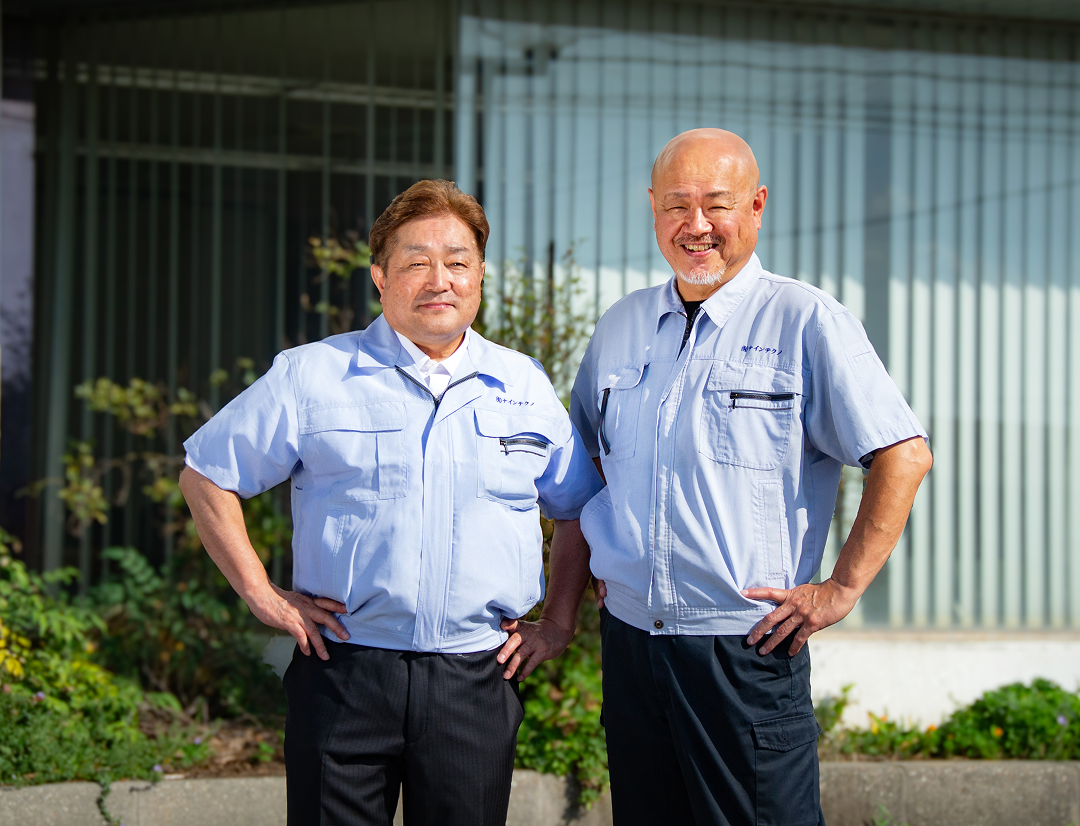
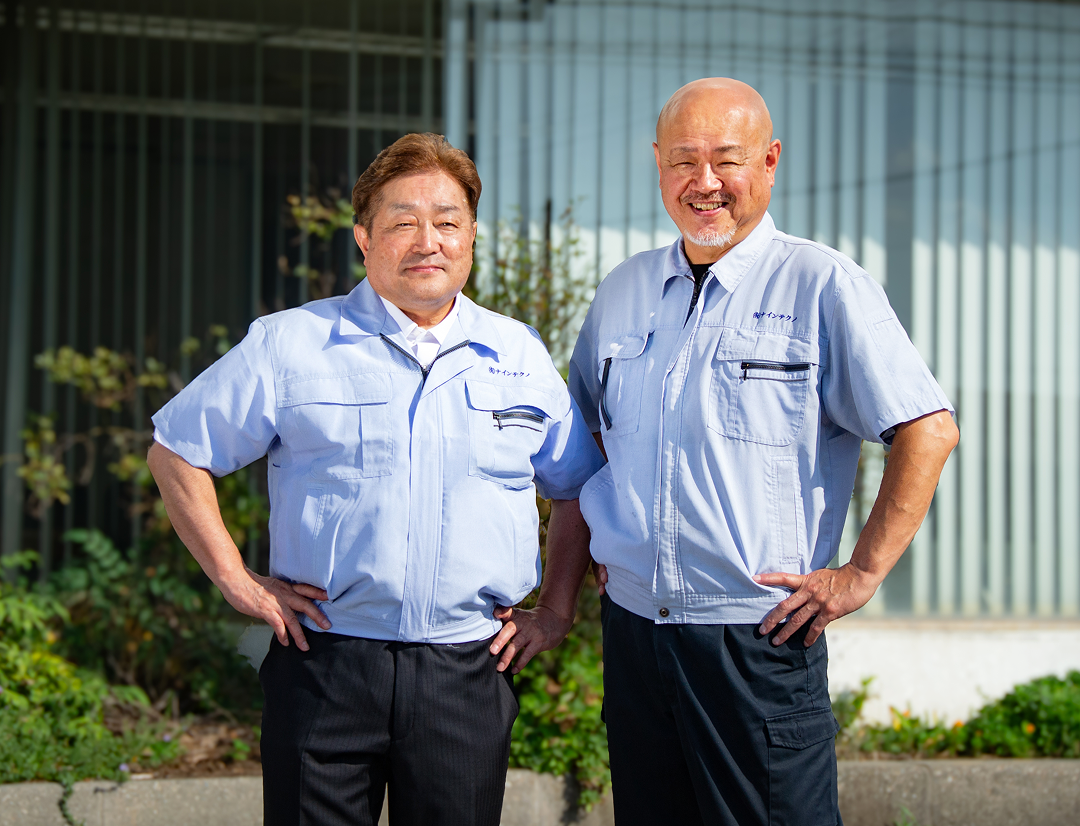
求める人物像リストの行間調整、写真とのバランス修正

diff --git a/assets/css/style.css b/assets/css/style.css
@@ -474,7 +474,7 @@ button { font: inherit; }
   position: relative;
   z-index: 1;
   display: grid;
-  grid-template-columns: 540fr 405fr;
+  grid-template-columns: 460fr 485fr;
   gap: clamp(24px, 4vw, 55px);
   align-items: center;
 }
@@ -486,11 +486,12 @@ button { font: inherit; }
   line-height: 1.5;
   margin-bottom: 20px;
 }
-.recruit__persona-text ul { display: flex; flex-direction: column; gap: 8px; }
+.recruit__persona-text ul { display: flex; flex-direction: column; gap: 6px; }
 .recruit__persona-text li {
   position: relative;
   padding-left: 1.3em;
   font-size: clamp(14px, 1.5vw, 18px);
+  line-height: 1.4;
 }
 .recruit__persona-text li::before {
   content: '';
